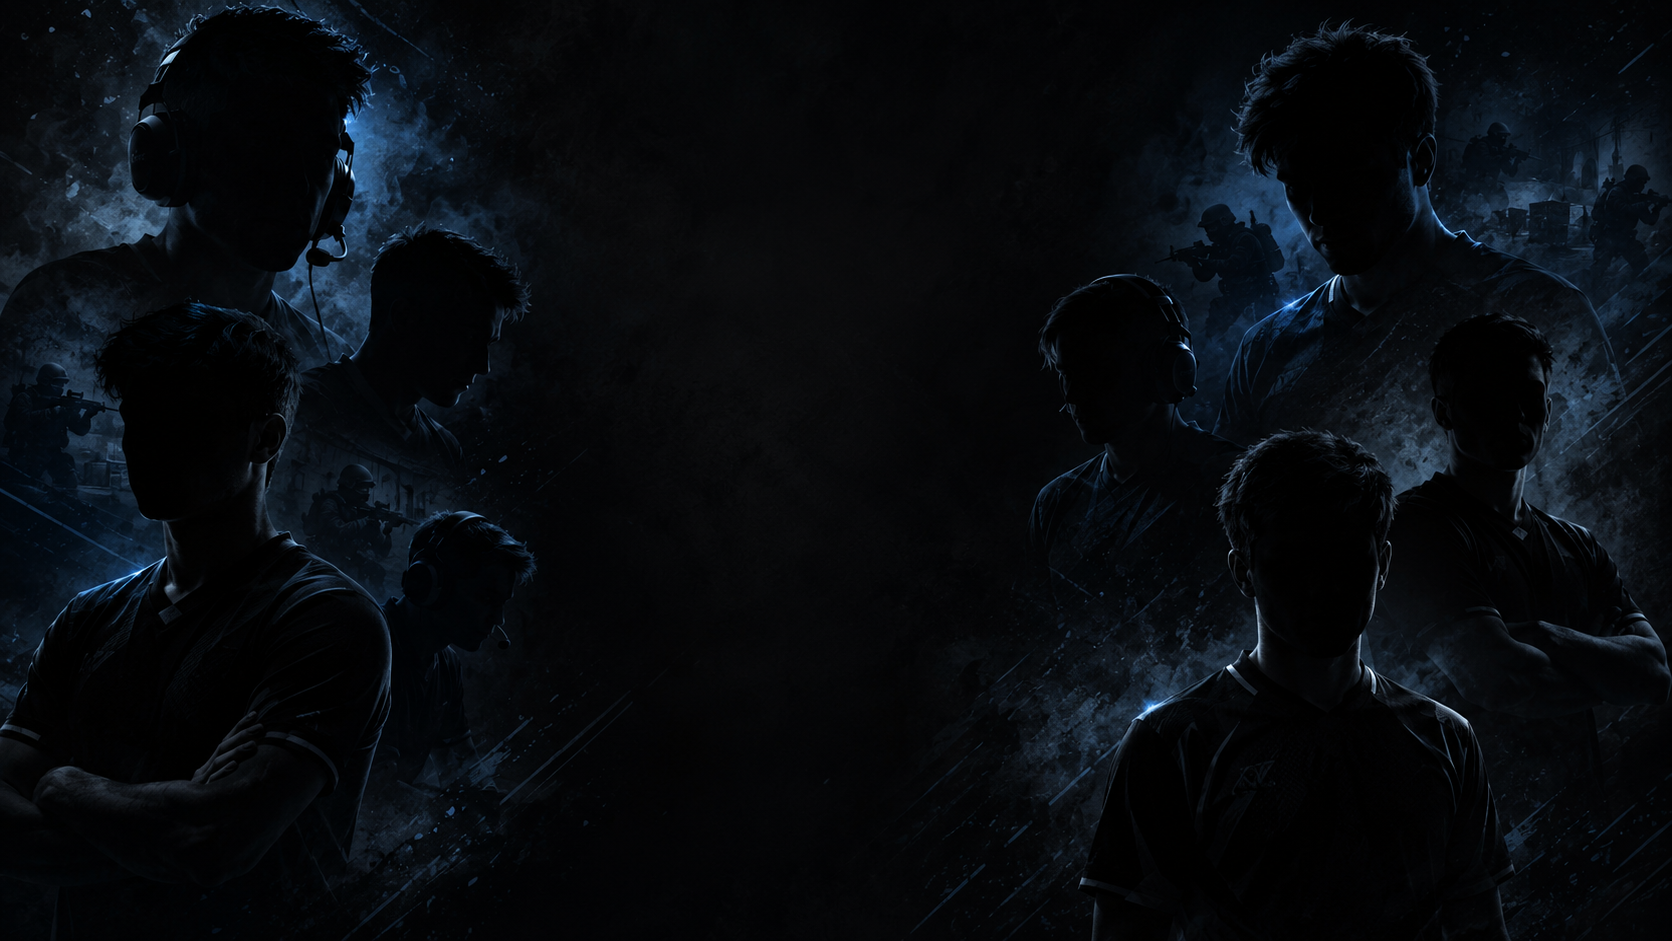
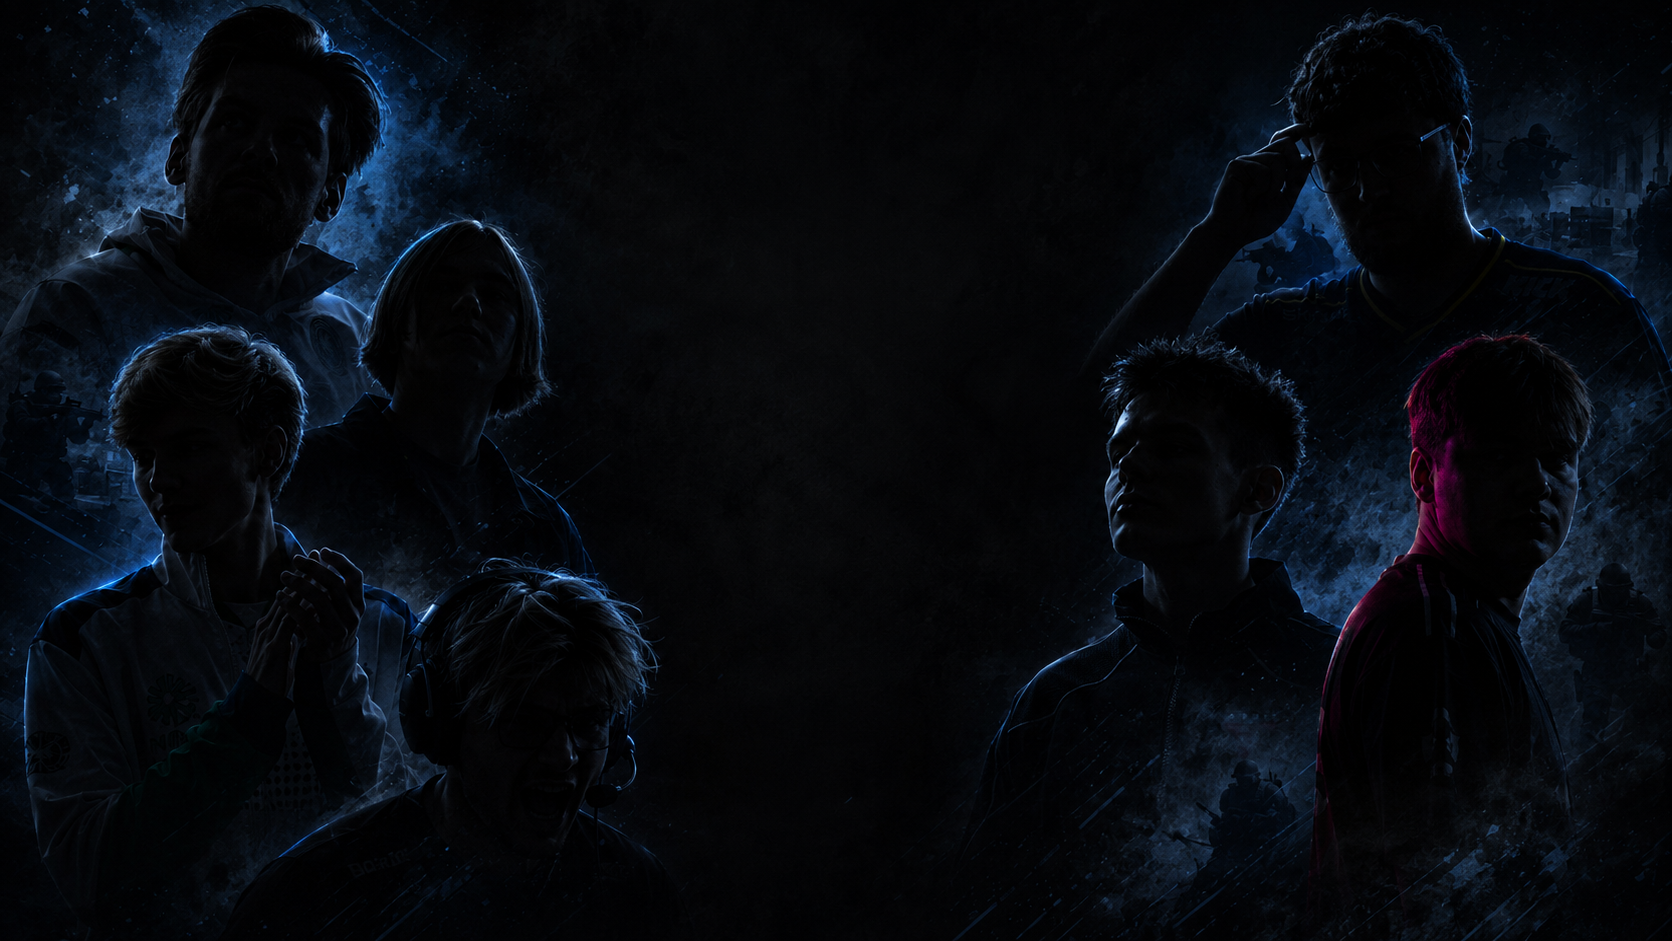
Teamless coaches fall back to their playing-era role
A coach without a Top-100 team showed the contradictory "Free Agent /
Coach" combo. Position now falls back to the player's historical role,
sourced from Liquipedia page revisions of their active years (43
override entries with evidence dates; 5 derived from residual roles).
Coach remains only for coaches whose team is in the HLTV Top 100
snapshot. Also update the stage background image.

diff --git a/server/players.py b/server/players.py
@@ -91,6 +91,17 @@ class Player:
         return any(r in COACH_ROLES for r in self.roles)
 
     @property
+    def played_role(self) -> str:
+        """选手时期的打法位置(忽略教练/经理等职务角色)。"""
+        if "igl" in self.roles:
+            return "IGL"
+        if any(ROLE_LABEL.get(r) == "AWPer" for r in self.roles):
+            return "AWPer"
+        if any(ROLE_LABEL.get(r) == "Rifler" for r in self.roles):
+            return "Rifler"
+        return ""
+
+    @property
     def is_searchable(self) -> bool:
         """Reject all-empty unresolved nickname stubs, but keep real profiles."""
         return bool(
@@ -182,6 +193,11 @@ class PlayerDB:
             p = Player(merged)
             if p.is_coach and p.team and not self.ranking.contains(p.team):
                 p.team = ""
+            if p.is_coach and not p.team and p.game_role not in ANSWER_ROLES:
+                # 没有(上榜)战队的教练不算 Coach,回退到选手时期的打法位置
+                fallback = override.get("played_role") or p.played_role
+                if fallback:
+                    p.game_role = fallback
             if not p.is_searchable:
                 self.excluded_stubs += 1
                 continue

diff --git a/tests/test_players.py b/tests/test_players.py
@@ -29,10 +29,20 @@ class PlayerDatabaseTests(unittest.TestCase):
     def test_coach_team_uses_hltv_top100_snapshot(self):
         friberg = self.db.lookup("friberg")
         neo = self.db.lookup("NEO")
-        self.assertEqual(friberg.primary_role, "Coach")
+        # 无上榜战队的教练回退到选手时期位置;有上榜战队的教练保持 Coach
+        self.assertEqual(friberg.primary_role, "Rifler")
         self.assertEqual(friberg.team, "")
         self.assertEqual(neo.primary_role, "Coach")
         self.assertEqual(neo.team, "Astralis")
+
+    def test_teamless_coach_falls_back_to_playing_role(self):
+        self.assertEqual(self.db.lookup("GuardiaN").primary_role, "AWPer")
+        self.assertEqual(self.db.lookup("Golden").primary_role, "IGL")
+        self.assertEqual(self.db.lookup("kRYSTAL").primary_role, "IGL")
+        # 全库不再存在"Free Agent + Coach"的自相矛盾组合
+        for p in self.db.players:
+            if p.primary_role == "Coach":
+                self.assertTrue(p.team, p.page)
 
     def test_every_answer_has_comparable_attributes(self):
         self.assertGreater(len(self.db.answer_players), 0)
